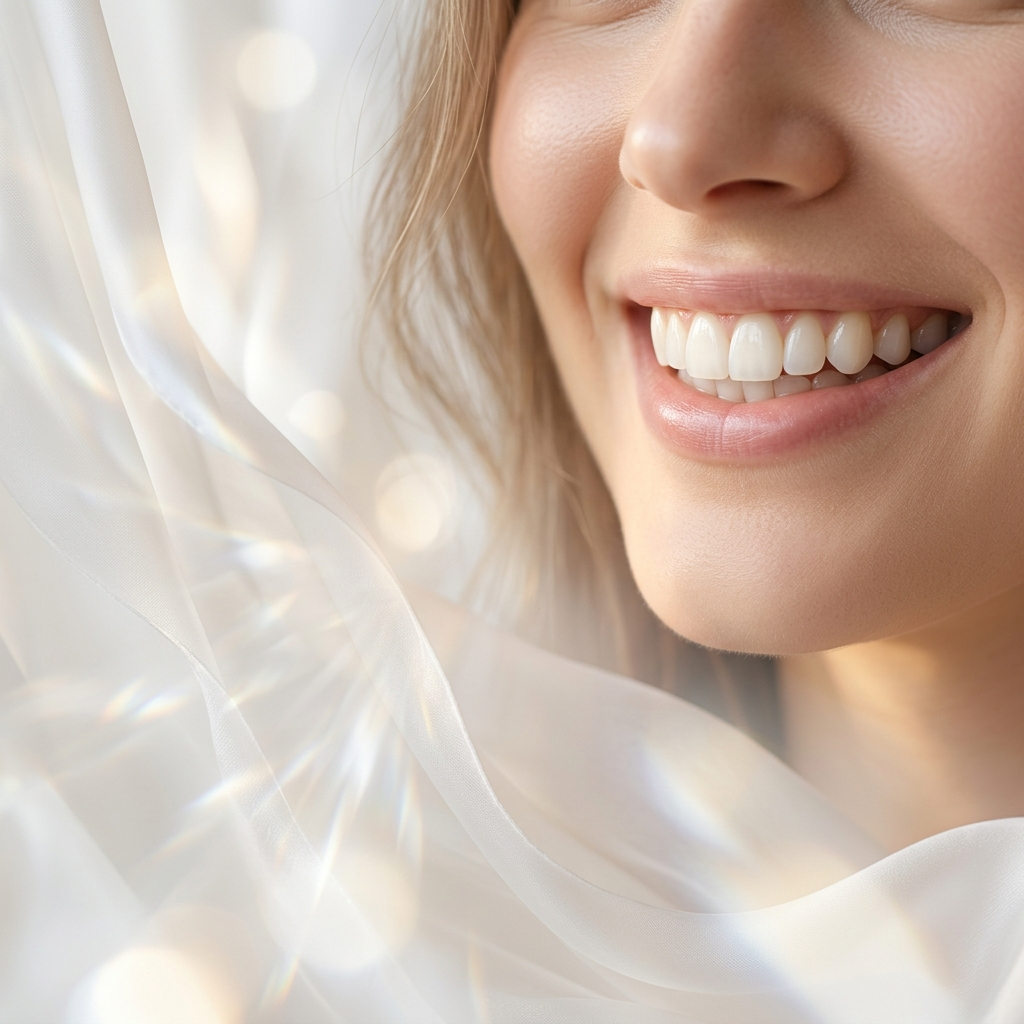
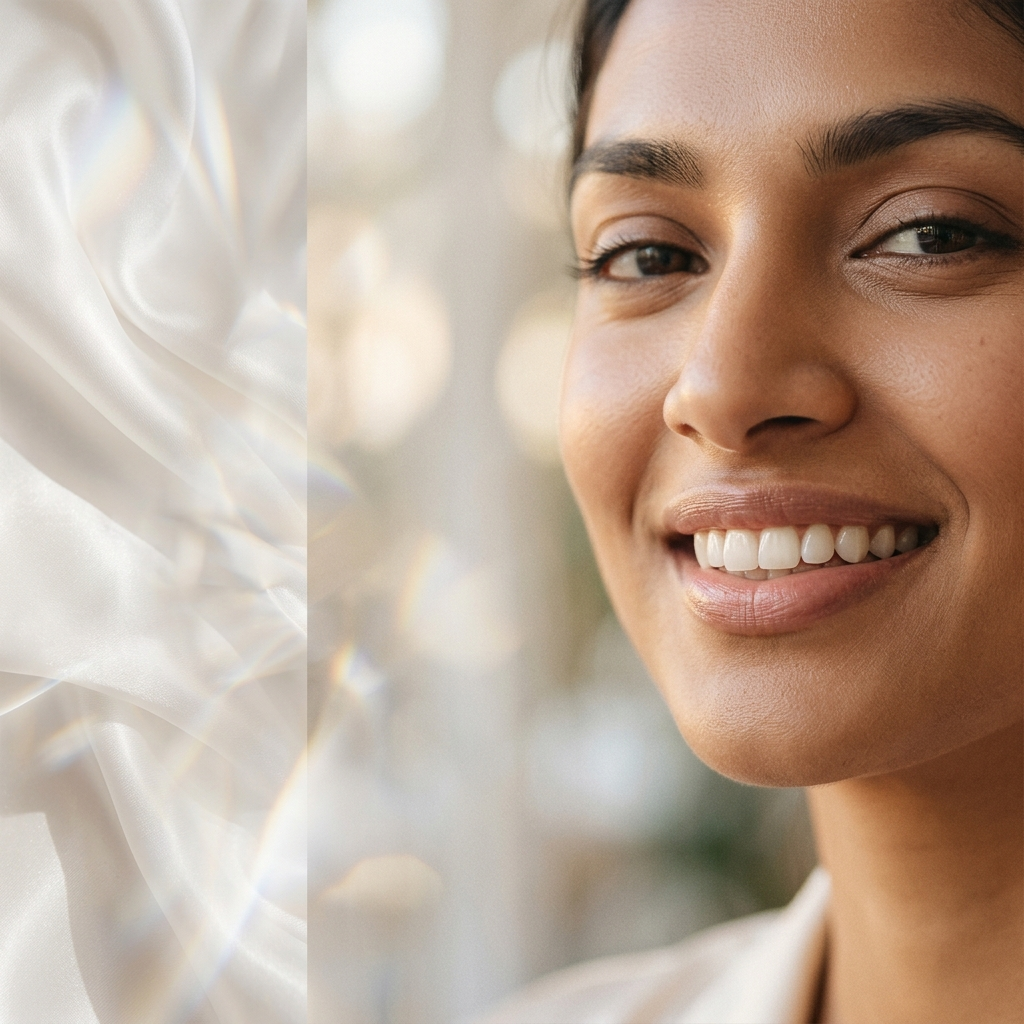
design: implement 'Pink Blush' hero redesign with macro Indian smile

diff --git a/src/app/page.tsx b/src/app/page.tsx
@@ -708,7 +708,7 @@ export default function App() {
 
       <main id="main-content" role="main">
       {/* 1. The Hero - Single Image Background Seamless Blend Match */}
-      <section className="relative min-h-[100vh] md:h-[110vh] w-full bg-[#fcfcfc] overflow-hidden flex flex-col md:flex-row items-center">
+      <section className="relative min-h-[100vh] md:h-[110vh] w-full bg-[#fff9f9] overflow-hidden flex flex-col md:flex-row items-center">
         
         {/* Visual Layer - Immersive Group Portrait */}
         <div className="relative w-full md:absolute md:inset-y-0 md:left-0 md:w-[60%] h-[75vh] md:h-full z-0 overflow-hidden" 
@@ -720,11 +720,11 @@ export default function App() {
             className="w-full h-full relative"
           >
             <Image
-              src="/community_hero.png"
+              src="/pink_hero.png"
               fill
               sizes="100vw"
-              className="object-cover object-center md:object-[center_35%]"
-              alt="Dr. Nidhi Mehta with a joyful community representing generational dental care"
+              className="object-cover object-center md:object-[center_25%]"
+              alt="Radiant Indian smile showcasing clinical excellence at Smile Clinique Mumbai"
               priority
             />
             {/* Ambient Overlay for depth */}
